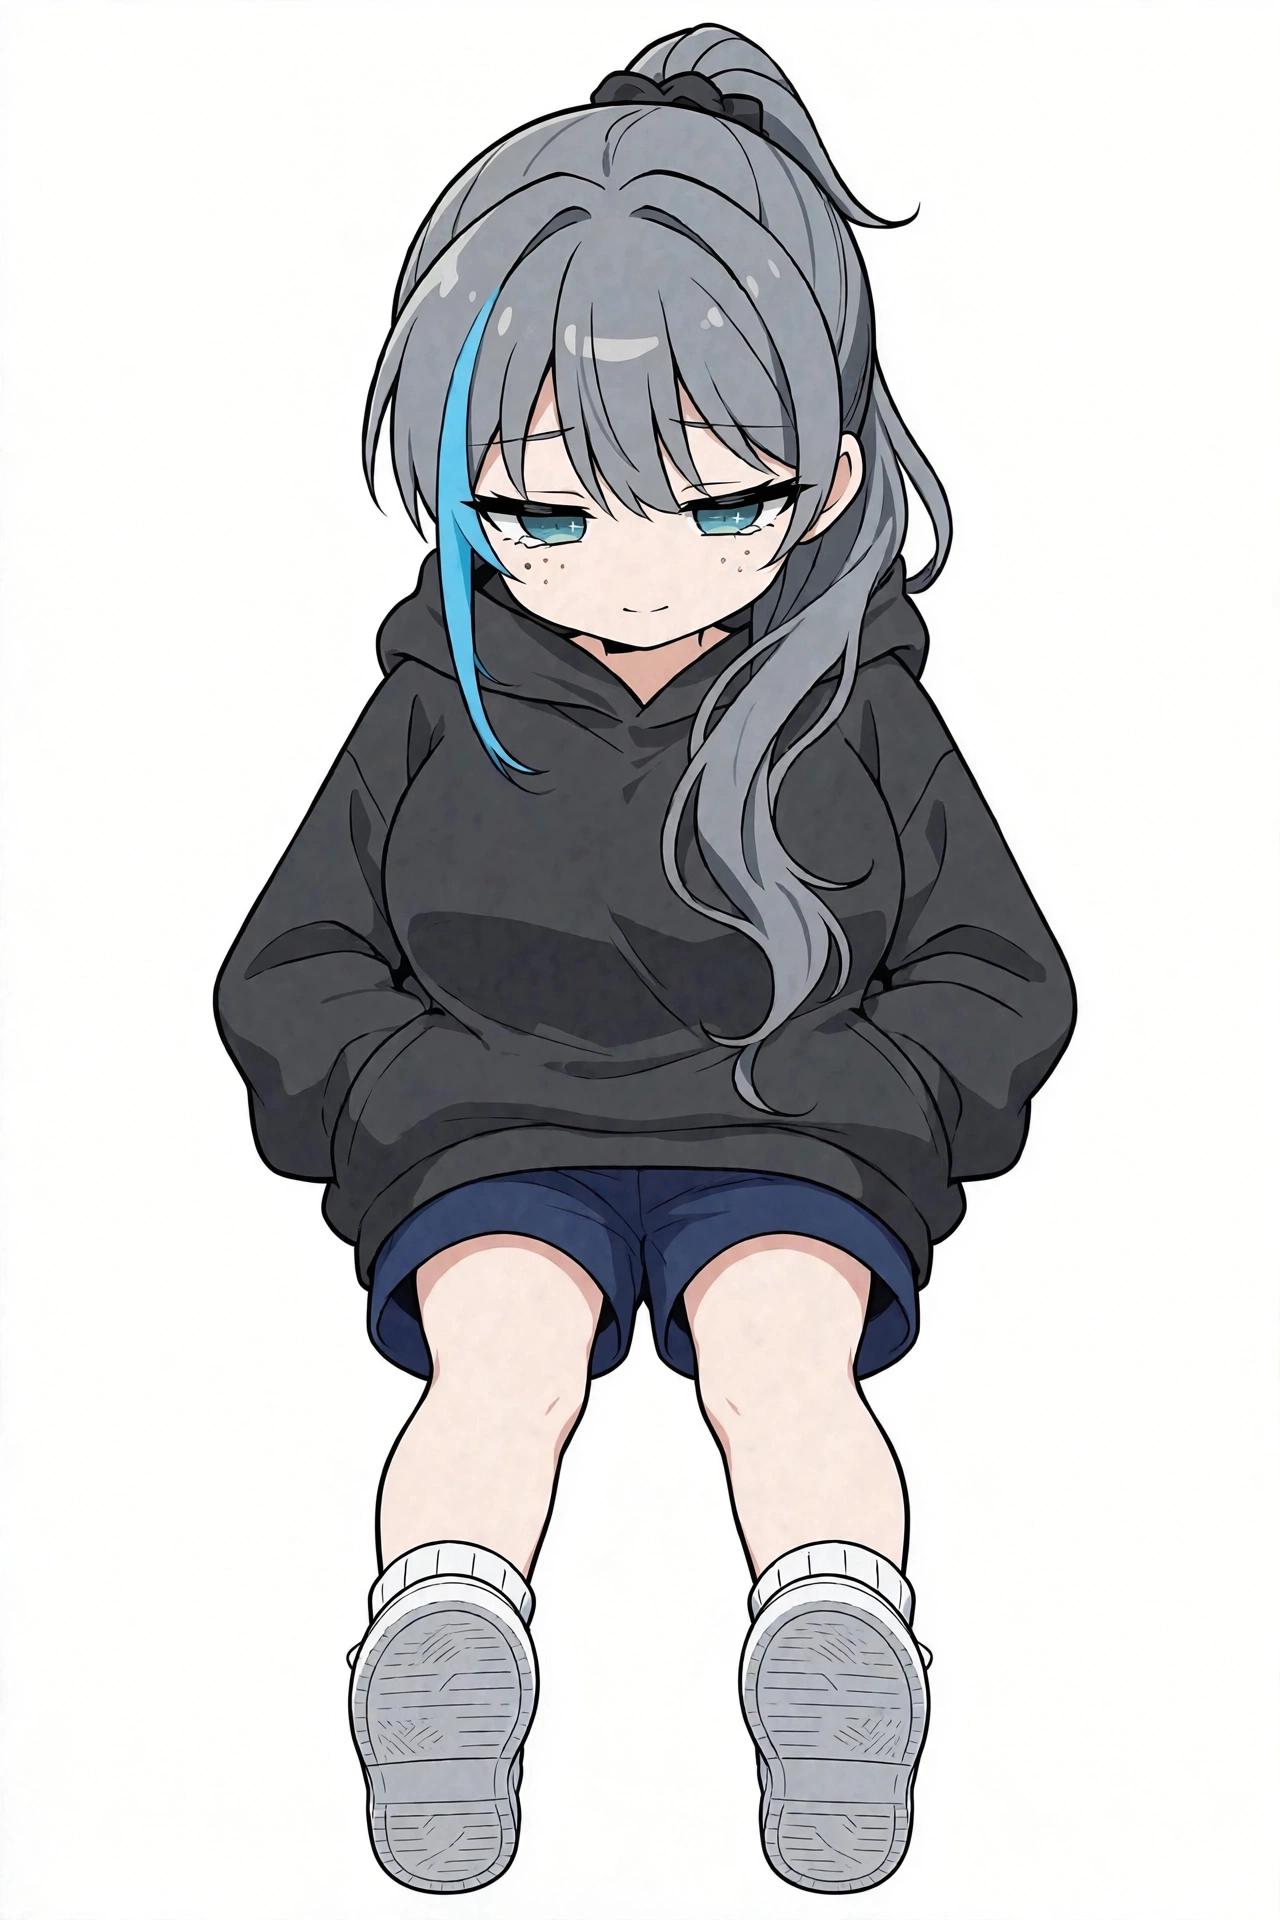
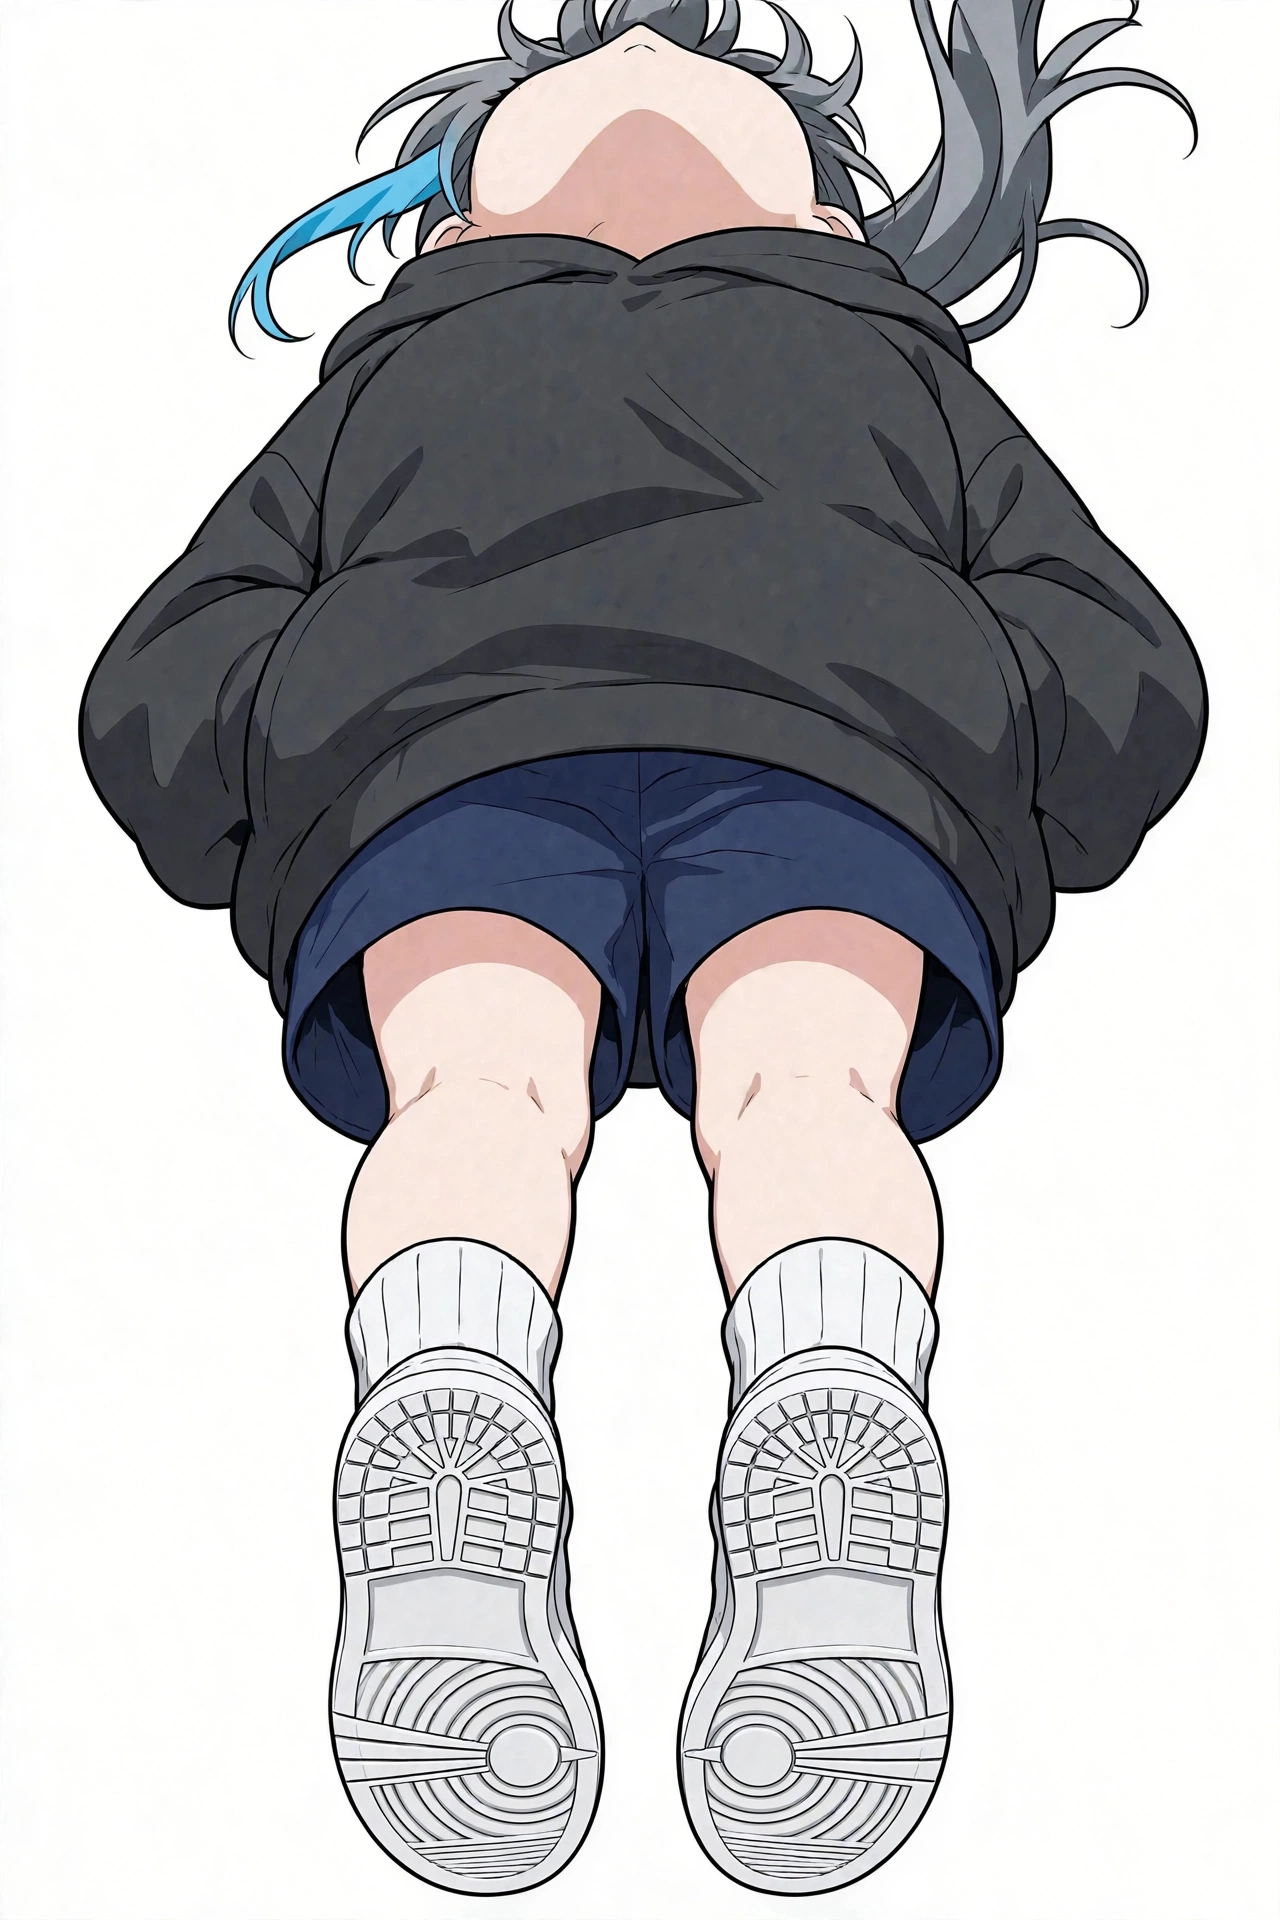
Regenerate the bottom view of the six-view set
The first bottom view was a low-angle shot with the face fully
visible; the new one is a true view from directly below (shoe
soles, underside of the shorts and hoodie hem, underside of
the chin). Spec deviation note 7 updated to match.

diff --git a/vroid-musechan/docs/musechan-3d-spec.md b/vroid-musechan/docs/musechan-3d-spec.md
@@ -69,6 +69,9 @@
 2. **側面図の頬の点々**: パーカー側面図にそばかす状の点があるが、誤り。ほくろは正面の1つだけ。
 3. **背面図の髪型**: 両背面図とも全体が1つの高いポニーテールに見えるが、正しくはハーフアップ (上半分だけ結び、下半分は下ろし髪として背中に流れる)。VRoid では下ろし髪の部分を別途作ること。
 4. 側面図の水色の前髪束は、前髪の際と顎下の2箇所に分かれて見えるが、実際は顔の横を垂れる1本の束。
+5. **右側面図の水色**: 首元・結び目の下に水色が覗いているが、正しくは右側面から水色はほぼ見えない (水色は左側の1束のみ)。髪型が1つの高いポニーテール寄りに見える点も背面図と同じズレ。
+6. **真上図**: 厳密な平面図ではなく真上寄りの俯瞰図として生成されている。頭頂・シュシュ・フードの位置関係の参考として使うこと (水色の1束は左前方に正しく出ている)。
+7. **真下図**: 初回生成分は顔の正面が見えるあおり図で両目の下に点々もあったため、2026-11-02 に生成し直して差し替え済み。現在の図は靴底・ショーツとパーカーの裾の裏側・顎の裏側が見える真下ビューで、資料として使える。
 
 ## Phase 1 への引き継ぎ
 
